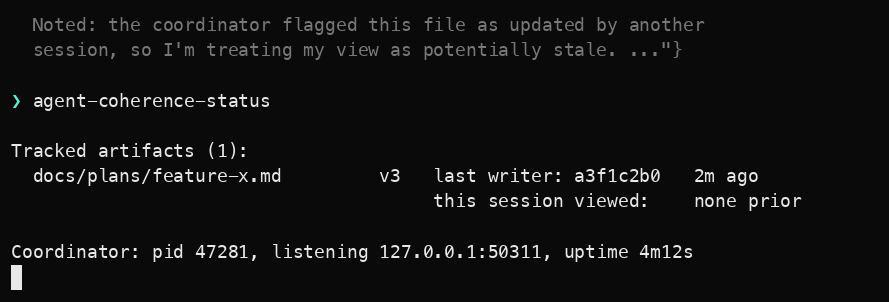
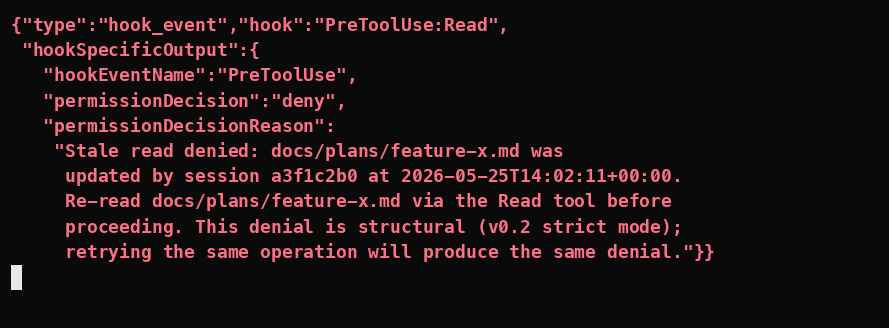
feat(plugin): add strict-mode deny screenshot per v0.2 visual-gap audit
Source: agent-coherence-plugin/docs/demos/2026-05-25-strict-mode-
deny-screenshot-script.md. The 2026-05-25 audit found "What it
looks like in a session" accurately depicted v0.2's default
warn-mode behavior but had zero visual representation of v0.2's
headline feature (strict-mode permissionDecision: "deny"). This
commit closes that visual gap.

═══ Pipeline: outreach/plugin-demo/montage.sh ═══

Added scene-5 fixture emitting the strict-mode deny envelope shape
claude renders when a tracked path matches strict_mode.yaml and
the coordinator sees a stale view. Wire shape matches the source
script's expected transcript verbatim:

  {"type":"hook_event","hook":"PreToolUse:Read",
   "hookSpecificOutput":{
     "hookEventName":"PreToolUse",
     "permissionDecision":"deny",
     "permissionDecisionReason":"Stale read denied: ..."}}

Red text styling (\033[1;31m) contrasts the warn-mode scene's
yellow advisory (\033[1;33m) — visual cue for "blocked" vs
"flagged."

Scene-count loops, height case statement, and Python compositor
all bumped from 4 to 5. Cast-header height=12 for the deny scene
(11-line envelope + opening brace). The combined-montage step
reshaped from 2x2 to 2x3 grid (sixth cell empty); per-scene PNGs
stay at natural height.

Per-scene PNG sizes: 23 / 19 / 44 / 37 / 26 KB (132 KB total) —
within the same budget as the prior 4-scene 122 KB set; the new
scene-4 is 37 KB.

═══ /plugin/index.html ═══

Section intro updated:
[…]

diff --git a/site/plugin/index.html b/site/plugin/index.html
@@ -592,7 +592,7 @@
   <section id="scenes">
     <div class="container">
       <h2>What it looks like in a session.</h2>
-      <p>Four scenes from a real claude run, captured as static screenshots. The warning text in scene 3 is the output of the plugin's <code>PreToolUse:Read</code> hook — verbatim from the library's actual code path that fires when the coordinator detects a stale view.</p>
+      <p>Five scenes from a real claude run, captured as static screenshots. The hook output in scenes 3 and 4 is verbatim from the library's actual code paths. Scene 3 shows the warn-mode <code>additionalContext</code> advisory (default behavior, v0.1.1+); scene 4 shows the strict-mode <code>permissionDecision: "deny"</code> envelope (v0.2 headline feature, per-artifact opt-in via <code>.coherence/strict_mode.yaml</code>).</p>
 
       <article class="scene-card scene-context">
         <header>
@@ -620,22 +620,33 @@
         <header>
           <p class="scene-num">3</p>
           <div>
-            <h3>The plugin intercepts — the stale-read warning is injected.</h3>
-            <p class="scene-meta">Before the <code>Read</code> tool call executes, the plugin's <code>PreToolUse:Read</code> hook fires. <code>additionalContext</code> arrives in the agent's working memory: this file was updated by another session, your view is stale, here's the current version, consider re-reading. <strong>The load-bearing visual.</strong></p>
+            <h3>Warn mode — the stale-read advisory is injected.</h3>
+            <p class="scene-meta">Default behavior. Before the <code>Read</code> tool call executes, the plugin's <code>PreToolUse:Read</code> hook fires and an <code>additionalContext</code> sentence arrives in the agent's working memory: this file was updated by another session, your view is stale, here's the current version, consider re-reading. The call is allowed; the model gets to choose.</p>
           </div>
         </header>
         <img class="scene-shot" src="stale-read-scene-3.png" alt="Terminal screenshot of the PreToolUse Read hook event firing with decision allow. The additionalContext field contains a multi-line stale-read warning marked with a warning emoji: it states the file was updated by session a3f1c2b0, that the current version is v3, that this is the first time the session has observed this artifact because another session in the workspace registered it first, that the worktree content matches the last-recorded hash so the divergence is purely about version-tracking metadata, and recommends re-reading the file before acting on stale assumptions." loading="lazy" />
       </article>
 
-      <article class="scene-card scene-resolve">
+      <article class="scene-card scene-pivot">
         <header>
           <p class="scene-num">4</p>
           <div>
-            <h3>The assistant acknowledges before acting.</h3>
-            <p class="scene-meta">With the warning in context, the model notes the divergence in its response instead of operating on a stale plan. <code>agent-coherence-status</code> confirms the coordinator's view of the artifact: v3, written by another session two minutes ago, no prior view from this session.</p>
+            <h3>Strict mode — the same stale read returns <code>permissionDecision: "deny"</code>.</h3>
+            <p class="scene-meta">With the artifact opted into strict mode via <code>.coherence/strict_mode.yaml</code>, the same hook returns a hard denial instead of an advisory. The deny text is structural and byte-identical across retries (per the Phase 0 falsifiability finding — varied text reads as prompt-injection to Opus and worsens retries). The model surfaces the denial verbatim and stops rather than acting on stale content. Strict mode is per-artifact opt-in; warn mode above remains the default. <strong>The v0.2 headline feature.</strong></p>
           </div>
         </header>
-        <img class="scene-shot" src="stale-read-scene-4.png" alt="Terminal screenshot of the assistant's message acknowledging the coordinator flagged the file as updated by another session and that it is treating its view as potentially stale, followed by the agent-coherence-status command output reporting one tracked artifact docs/plans/feature-x.md at version 3 with last writer a3f1c2b0 from two minutes ago and no prior view from this session, plus the coordinator process information." loading="lazy" />
+        <img class="scene-shot" src="stale-read-scene-4.png" alt="Terminal screenshot of the PreToolUse Read hook event returning permissionDecision deny instead of allow. The hookSpecificOutput contains a permissionDecisionReason: Stale read denied — docs/plans/feature-x.md was updated by session a3f1c2b0 on 2026-05-25; re-read the file via the Read tool before proceeding; the denial is structural under v0.2 strict mode and retrying the same operation will produce the same denial." loading="lazy" />
+      </article>
+
+      <article class="scene-card scene-resolve">
+        <header>
+          <p class="scene-num">5</p>
+          <div>
+            <h3>The assistant acknowledges before acting.</h3>
+            <p class="scene-meta">In warn mode, the model notes the divergence in its response instead of operating on a stale plan; in strict mode, it surfaces the denial verbatim and halts. <code>agent-coherence-status</code> confirms the coordinator's view of the artifact: v3, written by another session two minutes ago, no prior view from this session.</p>
+          </div>
+        </header>
+        <img class="scene-shot" src="stale-read-scene-5.png" alt="Terminal screenshot of the assistant's message acknowledging the coordinator flagged the file as updated by another session and that it is treating its view as potentially stale, followed by the agent-coherence-status command output reporting one tracked artifact docs/plans/feature-x.md at version 3 with last writer a3f1c2b0 from two minutes ago and no prior view from this session, plus the coordinator process information." loading="lazy" />
       </article>
     </div>
   </section>